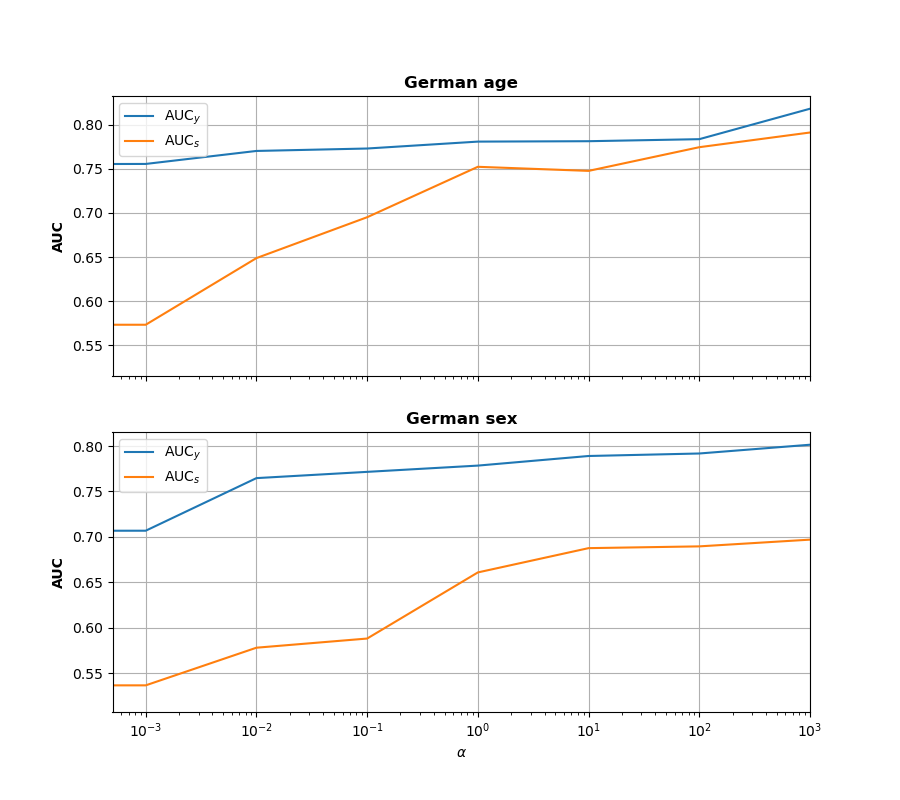
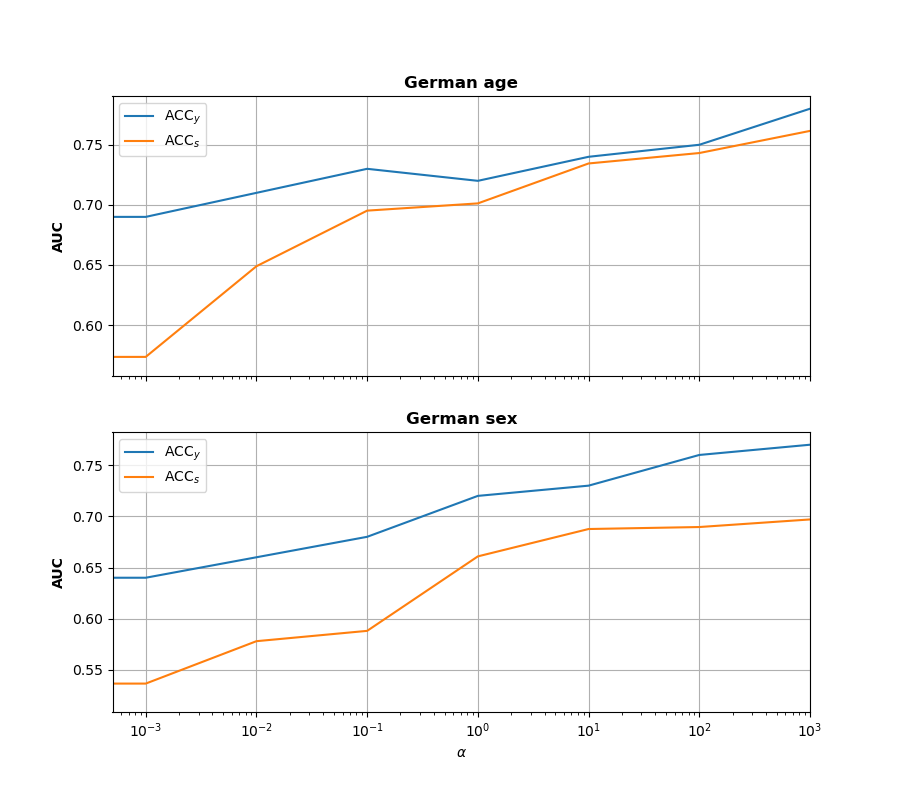
AP

diff --git a/Paper/Paper_original/fair.tex b/Paper/Paper_original/fair.tex
@@ -148,7 +148,7 @@
 
 
 \begin{abstract}
-With growing awareness of societal impact of artificial intelligence, fairness has become an important aspect of machine learning algorithms. The issue is that human biases towards certain groups of population, defined by sensitive features like race and gender, are introduced to the training data through data collection and labeling. Two important directions of fairness ensuring research have focused on (i) instance weighting in order to decrease the impact of more biased instances and (ii) adversarial training in order to construct data representations informative of the target variable, but uninformative of the sensitive attributes. In this paper we propose a Fair Adversarial Instance Re-weighting (FAIR) method, which uses adversarial training to learn instance weighting function that ensures fair predictions. Merging the two paradigms, it inherits desirable  properties from both interpretability of reweighting and end-to-end trainability of adversarial training. We propose four different variants of the method and, among other things, demonstrate how the method can be cast in a fully probabilistic framework. Additionally, theoretical analysis of FAIR models' properties have been studied extensively. We compare FAIR models to six other related and state-of-the-art models and demonstrate that FAIR is able to achieve a better trade-off between accuracy and unfairness. To the best of our knowledge, this is the first model that merges reweighting and adversarial approaches by means of a weighting function that can provide interpretable information about fairness of individual instances.
+With growing awareness of societal impact of artificial intelligence, fairness has become an important aspect of machine learning algorithms. The issue is that human biases towards certain groups of population, defined by sensitive features like race and gender, are introduced to the training data through data collection and labeling. Two important directions of fairness ensuring research have focused on (i) instance weighting in order to decrease the impact of more biased instances and (ii) adversarial training in order to construct data representations informative of the target variable, but uninformative of the sensitive attributes. In this paper we propose a Fair Adversarial Instance Re-weighting (FAIR) method, which uses adversarial training to learn instance weighting function that ensures fair predictions. Merging the two paradigms, it inherits desirable  properties from both interpretability of reweighting and end-to-end trainability of adversarial training. We propose four different variants of the method and, among other things, demonstrate how the method can be cast in a fully probabilistic framework. Additionally, theoretical analysis of FAIR models' properties have been studied extensively. We compare FAIR models to ten other related and state-of-the-art models and demonstrate that FAIR is able to achieve a better trade-off between accuracy and unfairness. To the best of our knowledge, this is the first model that merges reweighting and adversarial approaches by means of a weighting function that can provide interpretable information about fairness of individual instances.
 \end{abstract}
 
 
@@ -225,9 +225,13 @@ The simplest approach is to assign weights to instances so that sums of weights 
 
 \textbf{Adversarial training}. Adversarial training provides a framework for mitigating biases by learning new data representation from which it is possible to predict the target variable, but not possible to predict the sensitive attribute. This approach creates a trade-off between two goal functions and therefore reaches Nash equilibrium \cite{goodfellow2014generative}.
 Adversarial training for fairness was first presented in \cite{zhang2018mitigating}. Similar model was applied to recidivism prediction in order to remove racial bias \cite{wadsworth2018achieving}.
-An important approach of such kind is Fair Adversarial Discriminative model (FAD) \cite{adel2019one}. Moreover, theoretical analysis of the relationship between the label classifier performance and the adversary’s ability to predict the sensitive attribute value is provided. Also, in the same paper, a variation of the adversarial learning procedure is developed to increase diversity among elements of each mini-batch of the gradient descent training, in order to achieve a representation that does not suffer from mode collapse.
+An important approach of such kind is Fair Adversarial Discriminative model (FAD) \cite{adel2019one}. Moreover, theoretical analysis of the relationship between the label classifier performance and the adversary’s ability to predict the sensitive attribute value is provided. Also, in the same paper, a variation of the adversarial learning procedure is developed to increase diversity among elements of each mini-batch of the gradient descent training, in order to achieve a representation that does not suffer from mode collapse. Simmilarly Zhao et. al \cite{zhao2019conditional} presented a algorithm for Conditional Learning of Fair Representations (CLFR) that can simultaneously mitigate two notions of disparity among different subgroups in the classification problems.
 Another theoretical analysis of solving fairness problem via adversarial approach is presented in \cite{madras2018learning}.
-Another adversarial approach focuses on learning to select non-sensitive features on per instance basis \cite{wang2019approaching}. The adversarial approach is employed to minimize the correlation between selected features and sensitive information. While adversarial approach enables end-to-end training it does not provide any interpretable information on the individual fairness of instances.
+Another adversarial approach focuses on learning to select non-sensitive features on per instance basis \cite{wang2019approaching}. 
+Ragonesi et. al \cite{ragonesi2021learning} proposed optimization strategy (LURMI - Learning Unbiased Representations via Mutual Information backpropagation), which simultaneously estimates and minimizes the mutual information between the learned representation and specific data attributes by using adversarial framework.
+Moreover, Cotter et. al \cite{cotter2019optimization} introduced a new algorithms (PYCO) for solving constrainted optimization problem by introducing Langrangian (PYCO\_diff) and proxy-Lagrangian (PYCO\_non\_diff) gradient based min-max based optimization methods for solving differentiable and non-differentiable constraint optimization problems, respectively. It is presented that PYCO can be successfully used in group fairness constraint optimization.
+
+The adversarial approach in general is employed to minimize the correlation between selected features and sensitive information. While adversarial approach enables end-to-end training it does not provide any interpretable information on the individual fairness of instances.
 
 \vspace{2mm}
 Our approach tries to keep the best from both worlds. It provides interpretable information on instance fairness like reweighting approach and allows end-to-end training like adversarial approach.
@@ -466,19 +470,19 @@ The third dataset, named \textit{Hospital Expenditures}, comes from \cite{bellam
 
 As a fourth dataset, we used \textit{German credit} dataset. \textit{German credit} dataset has 1,000 instances where the task is to classify bank account holders into classes good or bad. The total number of attributes used in the dataset, after applying dummy coding is 58, including sensitive attributes. Following the definition of fairness from \cite{kamiran2012decision} for German credit dataset, there are two sensitive attributes, one being Gender and other being Age ($\geq 25$ is considered as privileged class, and $< 25$ as unprivileged class).  Total numbers of instances used in training, validation and testing was 700, 150, and 150, respectively.
 
-\textbf{Models}. \sloppy The results obtained by FAIR models are compared with six related and state-of-the-art algorithms: FAD, reweighing preprocessing technique from~\cite{kamiran2012data} combined with the random forest classifier (Reweighing - RF) and with neural networks (Reweighing - NN), disparity impact remover~\cite{feldman2015certifying} combined with random forest (DI - RF) and neural networks (DI - NN) and prejudice remover~\cite{kamishima2012fairness} (PR). Architecture, number of epochs in early stopping procedure, and learning rates were empirically determined as to optimize the performance of each model, by varying design choices of the architectures described in the literature. Detailed specifications can be found in \ref{app:Architecture}. We did not use explicit regularization in our experiments since, in accordance with the remark after the proof of theorem \ref{pp:infty}, capacity of the models can also be controlled through the choice of architecture.
+\textbf{Models}. \sloppy The results obtained by FAIR models are compared with ten related and state-of-the-art algorithms: FAD, reweighing preprocessing technique from~\cite{kamiran2012data} combined with the random forest classifier (Reweighing - RF) and with neural networks (Reweighing - NN), disparity impact remover~\cite{feldman2015certifying} combined with random forest (DI - RF) and neural networks (DI - NN), prejudice remover~\cite{kamishima2012fairness} (PR), models based on conditonal learning of fair representations~\cite{zhao2019conditional} (CLFR), learning unbiased representation via mutual information~\cite{ragonesi2021learning} (LURMI), optimization model for differentiable and non-differentiable constraints~\cite{cotter2019optimization} (PYCO\_diff and PYCO\_non\_diff). In the case of PYCO\_non\_diff model all fairness metrics were directly optimized, whereas in the case of PYCO\_diff approximation of fairness constraints is used. Architecture, number of epochs in early stopping procedure, and learning rates were empirically determined as to optimize the performance of each model, by varying design choices of the architectures described in the literature. Detailed specifications can be found in \ref{app:Architecture}. We did not use explicit regularization in our experiments since, in accordance with the remark after the proof of theorem \ref{pp:infty}, capacity of the models can also be controlled through the choice of architecture.
 
 \textbf{Optimization}.
 For optimization of all neural network based models we use Adam optimizer \cite{bock2019proof}.
 During optimization of FAIR and FAD models, early stopping was used. In the early stopping procedure, the min and max objectives of adversarial training procedure on validation set were monitored. In case when there were no improvements in either of these two metrics for a given number of epoch (provided in \ref{app:Architecture}), the training procedure is stopped.
 
 \textbf{Metrics}.
-Classification performance of all presented classifiers is quantified by the area under the ROC curve (AUC), which is calculated for the target variable ($\mathbf{y}$) and the sensitive attribute ($\mathbf{s}$). Therefore, we present $AUC_y$ and $AUC_s$ for the target variable and the sensitive attribute, respectively. If subscript is omitted, then $AUC_y$ is presented. As fairness metrics we use ASD, AEOD, and AOD defined by Eqs. \ref{metric:asd}, \ref{metric:aeod}, and \ref{metric:aod}, respectively. 
+Classification performance of all presented classifiers is quantified by the accuracy (ACC), which is calculated for the target variable ($\mathbf{y}$) and the sensitive attribute ($\mathbf{s}$). Therefore, we present $ACC_y$ and $ACC_s$ for the target variable and the sensitive attribute, respectively. If subscript is omitted, then $ACC_y$ is presented. As fairness metrics we use ASD, AEOD, and AOD defined by Eqs. \ref{metric:asd}, \ref{metric:aeod}, and \ref{metric:aod}, respectively. 
 
-\textbf{Evaluation procedure and presentation of results}. The evaluated models (both FAIR and the baselines) have hyperparameters which affect the trade-off between fairness and predictive performance of the classifiers. Note that such hyperparameters do not control model capacity. Therefore, we do not tune them to obtain maximal perfomance (like one might tune regularization hyperparameters). Instead, we vary them in order to illustrate model behaviour for different trade-offs. The hyperparameters $\alpha$ of FAIR and FAD models were varied in range $[0, 10^{-3}, 10^{-2}, 10^{-1}, 1, 10, 10^{2}, 10^{3}]$, whereas in the case of other models, hyperparameters were varied in range $[0, 10^{-3}, 10^{-2}, 10^{-1}, 1]$ (since $1$ is the maximal value for these methods). For each such value, evlauation metrics were computed. We call a set of models obtained from one model kind (FAD, FAIR, etc.) by varying the fairnes related hyperparamter, a {\em model family}. For instance, all FAD models trained for different values of $\alpha$ constitute a FAD model family.
+\textbf{Evaluation procedure and presentation of results}. The evaluated models (both FAIR and the baselines) have hyperparameters which affect the trade-off between fairness and predictive performance of the classifiers. Note that such hyperparameters do not control model capacity. Therefore, we do not tune them to obtain maximal perfomance (like one might tune regularization hyperparameters). Instead, we vary them in order to illustrate model behaviour for different trade-offs. The hyperparameters $\alpha$ of FAIR, CLFR, LURMI and FAD models were varied in range $[0, 10^{-3}, 10^{-2}, 10^{-1}, 1, 10, 10^{2}, 10^{3}]$, whereas in the case of other models, hyperparameters were varied in range $[0, 10^{-3}, 10^{-2}, 10^{-1}, 1]$ (since $1$ is the maximal value for these methods). For each such value, evlauation metrics were computed. PYCO\_diff and PYCO\_non\_diff models were optimized for each fairness metric separately. We call a set of models obtained from one model kind (FAD, FAIR, etc.) by varying the fairnes related hyperparamter, a {\em model family}. For instance, all FAD models trained for different values of $\alpha$ constitute a FAD model family.
 
 Since the models are evaluated by two criteria (predictive performance of the target variable and fairness), one model can be better than the other according to one criterion and vice-versa. Since both critera are important, instead of privileging one of them we present our results in terms of Pareto fronts. For a set of trained models, Pareto front consists of models which are not dominated by any other models in terms of both predictive performance and fairness \cite{marler2004survey}. Models which are dominated by others in terms of both criteria are obviously irrelevant and should be discarded. Pareto front can be plotted in 2D in terms of metrics for the two criteria used and visually inspected. We base our evaluation on the overall Pareto front which is a Pareto front of all trained models (union of all model familites). Models which yield more points in such Pareto front are better.
-Since FAIR and baseline models do not directly optimize any of the commonly used fairness metrics, we evaluate them using several different fairness metrics. Hence, we present the overall Pareto front of all trained models with respect to AOD, ASD, and AEOD as fairness metrics and AUC as the performance metric.
+Since FAIR and baseline models do not directly optimize any of the commonly used fairness metrics, we evaluate them using several different fairness metrics. Hence, we present the overall Pareto front of all trained models with respect to AOD, ASD, and AEOD as fairness metrics and ACC as the performance metric.
 
 Construction of the Pareto front includes model selection - models are compared according to their performance and some of them are selected. Since evaluation metrics should never be reported on the data on which the selection was performed, we take care to train all models on the training set, to perform selection of the models for the Pareto front on the validation set, and to evaluate selected models on the test set. All results reported in the following section are calculated on the test set.
 
@@ -501,7 +505,7 @@ In this section we present results obtained using the experimental evaluation ou
 	\vskip -0.2in
 \end{figure*}
 
-Firstly, models performances obtained on \textit{Adult income} dataset are illustrated in Fig.~\ref{fig:Adult} by three fairness metrics ($\mathbf{AOD}$, $\mathbf{ASD}$ or $\mathbf{AEOD}$) and classification performance ($\mathbf{AUC_y}$). The models with greater AUC score and lower (un)fairness metric (upper left corner of plots) are preferred. It can be observed that FAIR models dominates Pareto optimal solutions with respect to the all fairness metrics. In addition, Reweighing-NN and FAIR-betaREP models dominate the upper left corner of Pareto fronts for AOD and AEOD, whereas the FAIR-scalar dominates the upper left corner of Pareto front for ASD metric. Moreover, in Table~\ref{tab:Adult} the Pareto optimal solutions obtained for all three fairness metrics and ($\mathbf{AUC_y}$) are presented. Similarly, it can be concluded that the number of FAIR models is larger compared to the other models and FAIR can therefore be considered better then other models.
+Firstly, models performances obtained on \textit{Adult income} dataset are illustrated in Fig.~\ref{fig:Adult} by three fairness metrics ($\mathbf{AOD}$, $\mathbf{ASD}$ or $\mathbf{AEOD}$) and classification performance ($\mathbf{ACC_y}$). The models with greater ACC score and lower (un)fairness metric (upper left corner of plots) are preferred. It can be observed that FAIR models dominates Pareto optimal solutions with respect to the all fairness metrics. In addition, LURMI and FAIR-betaREP models dominate the upper left corner of Pareto fronts for AOD and AEOD, whereas the FAIR-scalar and PYCO\_non\_diff dominate the upper left corner of Pareto front for ASD metric. Moreover, in Table~\ref{tab:Adult} the Pareto optimal solutions obtained for all three fairness metrics and ($\mathbf{ACC_y}$) are presented. Similarly, it can be concluded that the number of FAIR models is larger compared to the other models and FAIR can therefore be considered better then other models.
 
 \begin{table}
 	\centering
@@ -541,7 +545,7 @@ Firstly, models performances obtained on \textit{Adult income} dataset are illus
 	\label{tab:Adult}
 \end{table}
 
-Secondly, the results obtained on \textit{Hospital readmission} dataset are presented in Fig~\ref{fig:Readmission}. It can be noticed that only FAIR models exist on Pareto front and consequently all other models are dominated by them. It can be observed that in the case of AOD and ASD metrics FAIR-scalar is the closest to the upper left corner and can therefore be considered better than others. The letter can be also confirmed in the table~\ref{tab:Readmission} where only FAIR models exist on overall Pareto front.
+Secondly, the results obtained on \textit{Hospital readmission} dataset are presented in Fig~\ref{fig:Readmission}. It can be noticed that only FAIR models exist on Pareto front and consequently all other models are dominated by them. It can be observed that in the case of all three fairness metrics FAIR-betaSF is the closest to the upper left corner and can therefore be considered better than others. The letter can be also confirmed in the table~\ref{tab:Readmission} where only FAIR models exist on overall Pareto front.
 
 \begin{figure}
 	\center
@@ -565,7 +569,7 @@ Secondly, the results obtained on \textit{Hospital readmission} dataset are pres
 	\label{tab:Readmission}%
 \end{table}
 
-Thirdly, models performances obtained on \textit{Hospital expenditures} dataset are illustrated in Fig.~\ref{fig:Adult}. It can be observed that the FAIR models dominates Pareto front in all presented metrics. In the case of ASD metric PR model is the closest to the upper left corner of Pareto front, whereas in the case of AOD and AEOD metrics similarly can be concluded for DI-RF model. However in table~\ref{tab:MEPS-19} where overall Pareto front is presented the FAIR models still dominates Pareto front.
+Thirdly, models performances obtained on \textit{Hospital expenditures} dataset are illustrated in Fig.~\ref{fig:MEPS19}. It can be observed that the FAIR models dominates Pareto front in all presented metrics. In the case of ASD metric FAIR-scalar and PYCO models are the closest to the upper left corner of Pareto front, whereas in the case of AOD metric FAIR-betaSF is the best one and in the case of AEOD metrics similarly can be concluded for PYCO\_non\_diff model. However in table~\ref{tab:MEPS-19} where overall Pareto front is presented the FAIR models still dominates Pareto front.
 
 \begin{figure}
 	\center
@@ -697,13 +701,13 @@ Consequently, in this section all presented results were evaluated on test sets 
 
 \subsection{Discussion}
 
-Model behaviour of FAIR model with respect to change of hyperparameter $\alpha$ is shown in Fig.~\ref{fig:FigResultsAlpha} on \textit{Geman credit} dataset. It can be observed that as $\alpha$ decreases, instances which are unfair (but potentially useful for prediction of target variable) are being discarded, so AUC metrics for both the target variable and sensitive attribute decrease. This is experimental verification of theoretical model properties presented in section~\ref{Sec:FAIR}.
+Model behaviour of FAIR model with respect to change of hyperparameter $\alpha$ is shown in Fig.~\ref{fig:FigResultsAlpha} on \textit{Geman credit} dataset. It can be observed that as $\alpha$ decreases, instances which are unfair (but potentially useful for prediction of target variable) are being discarded, so ACC metrics for both the target variable and sensitive attribute decrease. This is experimental verification of theoretical model properties presented in section~\ref{Sec:FAIR}.
 
 \begin{figure}[h]
 	\center
 	\includegraphics[angle=0, width=0.8\textwidth]{AUC_y_A.png}
 	\captionsetup{justification=centering}
-	\caption{$\mathbf{AUC_y}$ and $\mathbf{AUC_s}$ as functions of the fariness hyperparameter $\alpha$ measured on the  German credit - sex and Readmission datasets ($\mathbf{AUC_y}$ is preferred larger, and $\mathbf{AUC_s}$ smaller)}
+	\caption{$\mathbf{ACC_y}$ and $\mathbf{ACC_s}$ as functions of the fariness hyperparameter $\alpha$ measured on the  German credit - sex and Readmission datasets ($\mathbf{ACC_y}$ is preferred larger, and $\mathbf{ACC_s}$ smaller)}
 	\label{fig:FigResultsAlpha}
 \end{figure}
 
@@ -968,7 +972,8 @@ In all experiments with Reweighing - RF and DI - RF 500 trees were used in the r
 \section{Additional results}
 \label{app:Additional results}
 
-More detailed results of experimental evaluation are given in Figs.~\ref{fig:Adult all}, ~\ref{fig:Readmission all},~\ref{fig:MEPS19 all},~\ref{fig:Ger_age all} and~\ref{fig:Ger_sex all} by presenting Pareto fronts with all dominated and non-dominated models.
+Additional classification performance of all presented classifiers quantified by AUC and fairness metrics are presented in Fig.~\ref{fig:Adult1}, ~\ref{fig:Readmission1}, ~\ref{fig:MEPS191}, ~\ref{fig:Ger-sex-res1} and~\ref{fig:Ger-age-res1}.
+More detailed results of experimental evaluation are given in Figs.~\ref{fig:Adult all-acc}, ~\ref{fig:Readmission all-acc},~\ref{fig:MEPS19 all-acc},~\ref{fig:Ger_age all-acc}, ~\ref{fig:Ger_sex all-acc}, ~\ref{fig:Adult all}, ~\ref{fig:Readmission all},~\ref{fig:MEPS19 all},~\ref{fig:Ger_age all} and~\ref{fig:Ger_sex all} by presenting Pareto fronts with all dominated and non-dominated models.
 
 
 \begin{figure*}
@@ -976,7 +981,7 @@ More detailed results of experimental evaluation are given in Figs.~\ref{fig:Adu
 	\includegraphics[angle=0, width=0.7\textwidth]{Adult.png}
 	\captionsetup{justification=centering}
 	\caption{Classification performance and fairness of models as measured by $\mathbf{AUC_y}$ and $\mathbf{AOD}$, $\mathbf{ASD}$ or $\mathbf{AEOD}$ on the \textit{Adult income} datasets}
-	\label{fig:Adult}
+	\label{fig:Adult1}
 	\vskip -0.2in
 \end{figure*}
 
@@ -985,7 +990,7 @@ More detailed results of experimental evaluation are given in Figs.~\ref{fig:Adu
 	\includegraphics[angle=0, width=0.7\textwidth]{Readmission.png}
 	\captionsetup{justification=centering}
 	\caption{Classification performance and fairness of models as measured by $\mathbf{AUC_y}$ and $\mathbf{AOD}$, $\mathbf{ASD}$ or $\mathbf{AEOD}$ on the \textit{Hospital readmission} dataset}
-	\label{fig:Readmission}
+	\label{fig:Readmission1}
 	\vskip -0.2in
 \end{figure}
 
@@ -994,7 +999,7 @@ More detailed results of experimental evaluation are given in Figs.~\ref{fig:Adu
 	\includegraphics[angle=0, width=0.7\textwidth]{MEPS19.png}
 	\captionsetup{justification=centering}
 	\caption{Classification performance and fairness of models as measured by $\mathbf{AUC_y}$ and $\mathbf{AOD}$, $\mathbf{ASD}$ or $\mathbf{AEOD}$ \textit{Hospital expenditures} dataset}
-	\label{fig:MEPS19}
+	\label{fig:MEPS191}
 	\vskip -0.2in
 \end{figure}
 
@@ -1003,7 +1008,7 @@ More detailed results of experimental evaluation are given in Figs.~\ref{fig:Adu
 	\includegraphics[angle=0, width=0.7\textwidth]{Ger_age.png}
 	\captionsetup{justification=centering}
 	\caption{Classification performance and fairness of models as measured by $\mathbf{AUC_y}$ and $\mathbf{AOD}$, $\mathbf{ASD}$ or $\mathbf{AEOD}$ \textit{German credit} (age) dataset}
-	\label{fig:Ger-sex-res}
+	\label{fig:Ger-sex-res1}
 	\vskip -0.2in
 \end{figure}
 
@@ -1012,7 +1017,7 @@ More detailed results of experimental evaluation are given in Figs.~\ref{fig:Adu
 	\includegraphics[angle=0, width=0.7\textwidth]{Ger_sex.png}
 	\captionsetup{justification=centering}
 	\caption{Classification performance and fairness of models as measured by $\mathbf{AUC_y}$ and $\mathbf{AOD}$, $\mathbf{ASD}$ or $\mathbf{AEOD}$ \textit{German credit} (sex) dataset}
-	\label{fig:Ger-age-res}
+	\label{fig:Ger-age-res1}
 	\vskip -0.2in
 \end{figure}
 
@@ -1023,7 +1028,7 @@ More detailed results of experimental evaluation are given in Figs.~\ref{fig:Adu
 	\includegraphics[angle=0, width=1\textwidth]{Adult_all_ACC.png}
 	\captionsetup{justification=centering}
 	\caption{Classification performance and fairness of models as measured by $\mathbf{ACC_y}$ and $\mathbf{AOD}$, $\mathbf{ASD}$ or $\mathbf{AEOD}$ on the \textit{Adult income} dataset}
-	\label{fig:Adult all}
+	\label{fig:Adult all-acc}
 	\vskip -0.2in
 \end{figure*}
 
@@ -1032,7 +1037,7 @@ More detailed results of experimental evaluation are given in Figs.~\ref{fig:Adu
 	\includegraphics[angle=0, width=1\textwidth]{Readmission_all_ACC.png}
 	\captionsetup{justification=centering}
 	\caption{Classification performance and fairness of models as measured by $\mathbf{ACC_y}$ and $\mathbf{AOD}$, $\mathbf{ASD}$ or $\mathbf{AEOD}$ on the \textit{Hospital readmission} dataset}
-	\label{fig:Readmission all}
+	\label{fig:Readmission all-acc}
 	\vskip -0.2in
 \end{figure*}
 
@@ -1041,7 +1046,7 @@ More detailed results of experimental evaluation are given in Figs.~\ref{fig:Adu
 	\includegraphics[angle=0, width=1\textwidth]{MEPS19_all_ACC.png}
 	\captionsetup{justification=centering}
 	\caption{Classification performance and fairness of models as measured by $\mathbf{ACC_y}$ and $\mathbf{AOD}$, $\mathbf{ASD}$ or $\mathbf{AEOD}$ on the \textit{Hospital expenditures} dataset}
-	\label{fig:MEPS19 all}
+	\label{fig:MEPS19 all-acc}
 	\vskip -0.2in
 \end{figure*}
 
@@ -1050,7 +1055,7 @@ More detailed results of experimental evaluation are given in Figs.~\ref{fig:Adu
 	\includegraphics[angle=0, width=1\textwidth]{Ger_age_all_ACC.png}
 	\captionsetup{justification=centering}
 	\caption{Classification performance and fairness of models as measured by $\mathbf{ACC_y}$ and $\mathbf{AOD}$, $\mathbf{ASD}$ or $\mathbf{AEOD}$ on the \textit{German credit} (age) dataset}
-	\label{fig:Ger_age all}
+	\label{fig:Ger_age all-acc}
 	\vskip -0.2in
 \end{figure*}
 
@@ -1059,7 +1064,7 @@ More detailed results of experimental evaluation are given in Figs.~\ref{fig:Adu
 	\includegraphics[angle=0, width=1\textwidth]{Ger_sex_all_ACC.png}
 	\captionsetup{justification=centering}
 	\caption{Classification performance and fairness of models as measured by $\mathbf{ACC_y}$ and $\mathbf{AOD}$, $\mathbf{ASD}$ or $\mathbf{AEOD}$ on the \textit{German credit} (sex) dataset}
-	\label{fig:Ger_sex all}
+	\label{fig:Ger_sex all-acc}
 	\vskip -0.2in
 \end{figure*}
 
